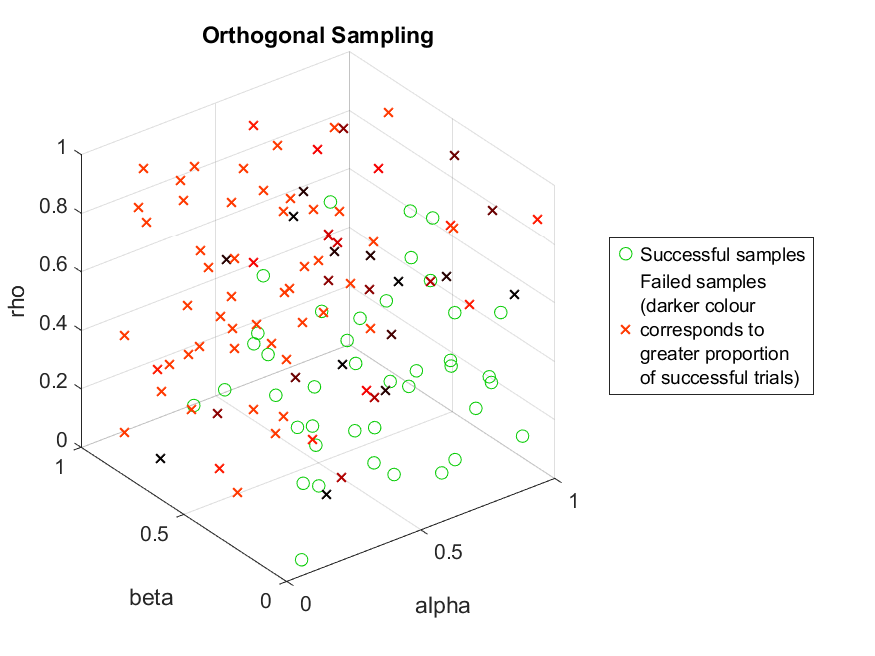
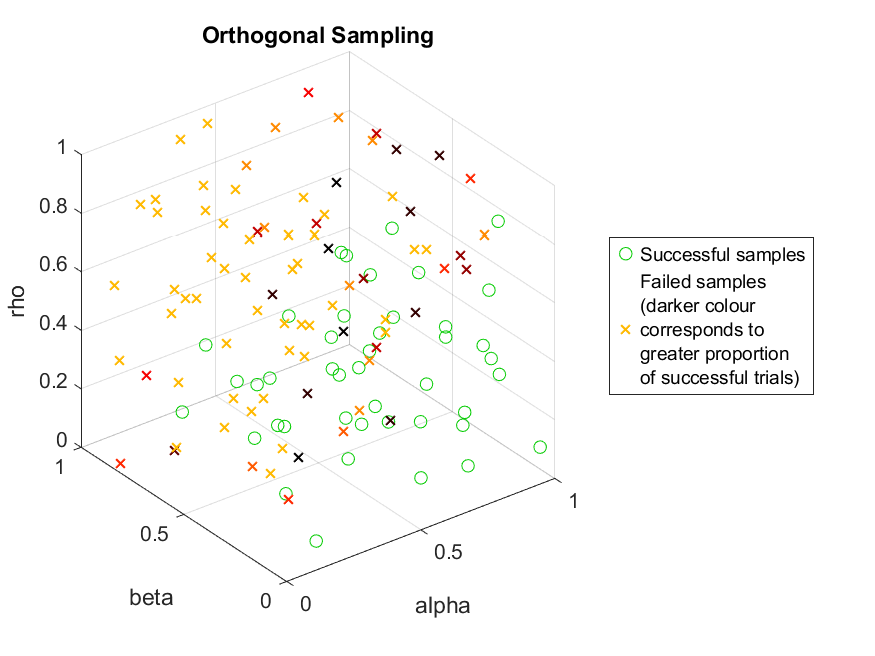
Minor edits

diff --git a/Task 3 - Kass/Task3.m b/Task 3 - Kass/Task3.m
@@ -83,10 +83,10 @@ scatter3(orthog_x(:,1), orthog_x(:,2), orthog_x(:,3), [], ... % orthog fail
 %----Labels------------------------------------%
 title("Latin Hypercube and Orthogonal Sampling")
 xlabel("alpha"), ylabel("beta"), zlabel("rho")
-lgd = legend("LHS successful samples", "Orthogonal successful samples", ...
-    "Failed samples " + newline +...
-    "(darker colour" + newline + "corresponds to" + newline +...
-    "greater proportion" + newline + "of successful trials)");
+lgd = legend("LHS successful samples", "Orthogonal successful " + ...
+    newline + "samples", "Failed samples (darker" + newline +  ...
+    "colour corresponds to" + newline + "greater proportion" + newline +...
+    "of successful trials)");
 %----Positioning------------%
 lgd.Location = "eastoutside";
 %=========================================================================]
@@ -106,8 +106,8 @@ trisurf(LHS_box_partial, LHS_p(:,1), LHS_p(:,2), LHS_p(:,3), ...
 %----Labels--------------------------------------%
 title("Parameter space of successful LHS samples")
 xlabel("alpha"), ylabel("beta"), zlabel("rho")
-lgd = legend("Box containing" + newline + "successful samples", ...
-    "Box containing" + newline + "samples with at" + newline + ...
+lgd = legend("Polygon containing" + newline + "successful samples", ...
+    "Polygon containing" + newline + "samples with at" + newline + ...
     "least one" + newline + "successful trial");
 %----Positioning------------%
 lgd.Location = "eastoutside";
@@ -128,8 +128,8 @@ trisurf(orthog_box_partial, orthog_p(:,1), orthog_p(:,2), orthog_p(:,3),...
 %----Labels--------------------------------------------%
 title("Parameter space of successful orthognal samples")
 xlabel("alpha"), ylabel("beta"), zlabel("rho")
-lgd = legend("Box containing" + newline + "successful samples", ...
-    "Box containing" + newline + "samples with at" + newline + ...
+lgd = legend("Polygon containing" + newline + "successful samples", ...
+    "Polygon containing" + newline + "samples with at" + newline + ...
     "least one" + newline + "successful trial");
 %----Positioning------------%
 lgd.Location = "eastoutside";

diff --git a/Task 3 - Kass/Orthogonal_Sampling.m b/Task 3 - Kass/Orthogonal_Sampling.m
@@ -31,7 +31,7 @@ function samples = Orthogonal_Sampling(n,d)
 % Initialising -----------------------------------------------------------]
 p = nthroot(n,d); % Number of subspace intervals
 if floor(p)~=p, error("n must have a positive integer d-th root. "...
-+ sprintf("Try using nthroot(n,d) to check if it is an integer.")), end
++ "Try using nthroot(n,d) to check if it is an integer."), end
 m = n/p; % Number of sample intervals (within subspaces)
 subscale = 0:(1/p):1; subscale(end) = []; % Marks the beginning position...
 %...of p many Latin intervals in ∈[0,1]. Positions subspaces in space
@@ -62,7 +62,6 @@ end
 
 % Generates random samples -----------------------------------------------]
 u = rand(n,d); % Generates uniform random numbers (3*n for 3D)
-% Shrinks values into a (1/m) sidelength hypercube
 u_subspace = u/m + samplescale(samplespaces); % Shrinks values into a...
 %...(1/m) sidelength hypercube, then shifts values into their intervals, 
 % positions samples within a subspace

diff --git a/Task 2 - Gracie/gillespieSSA.m b/Task 2 - Gracie/gillespieSSA.m
@@ -35,11 +35,11 @@ function [t, X] = gillespieSSA(alpha, beta, rho, X0, T)
     S = X0(1); E = X0(2); I = X0(3); R = X0(4); % Initial conditions 
     X = X0'; 
     t = 0;
-    nu = [-1 0 0; 1 -1 0; 0 1 -1; 0 0 1];  % Stoichiometric vectors
+    nu = [-1 0 0; 1 -1 0; 0 1 -1; 0 0 1]; % Stoichiometric vectors
 
     while t(end) < T
-        P = S + E + I + R;  % Total population
-        a = [alpha * S * I / P, beta * E, rho * I];  % Propensity functions
+        P = S + E + I + R; % Total population
+        a = [alpha * S * I / P, beta * E, rho * I]; % Propensity functions
         a0 = sum(a);
         
         % Sample the waiting time
